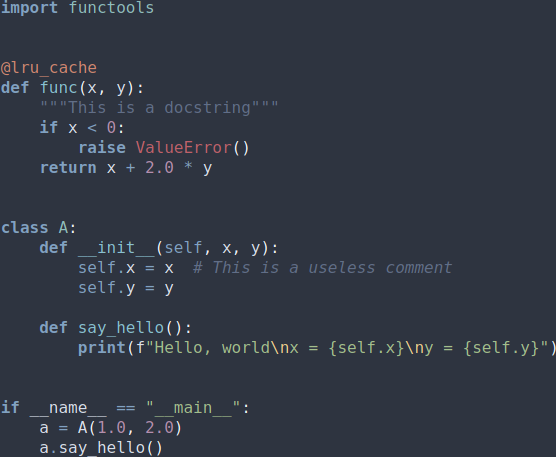
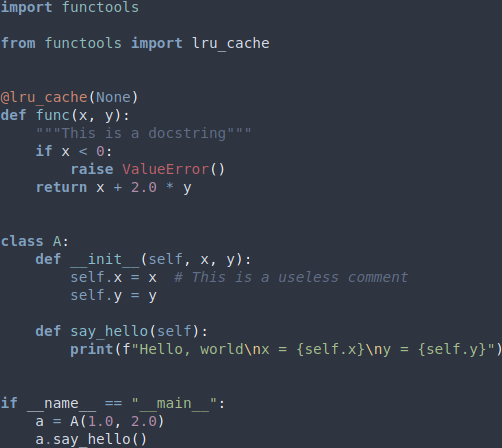
Correct some errors in example

diff --git a/nord_pygments_example.py b/nord_pygments_example.py
@@ -1,7 +1,9 @@
 import functools
 
+from functools import lru_cache
 
-@lru_cache
+
+@lru_cache(None)
 def func(x, y):
     """This is a docstring"""
     if x < 0:
@@ -14,7 +16,7 @@ class A:
         self.x = x  # This is a useless comment
         self.y = y
 
-    def say_hello():
+    def say_hello(self):
         print(f"Hello, world\nx = {self.x}\ny = {self.y}")
 
 
